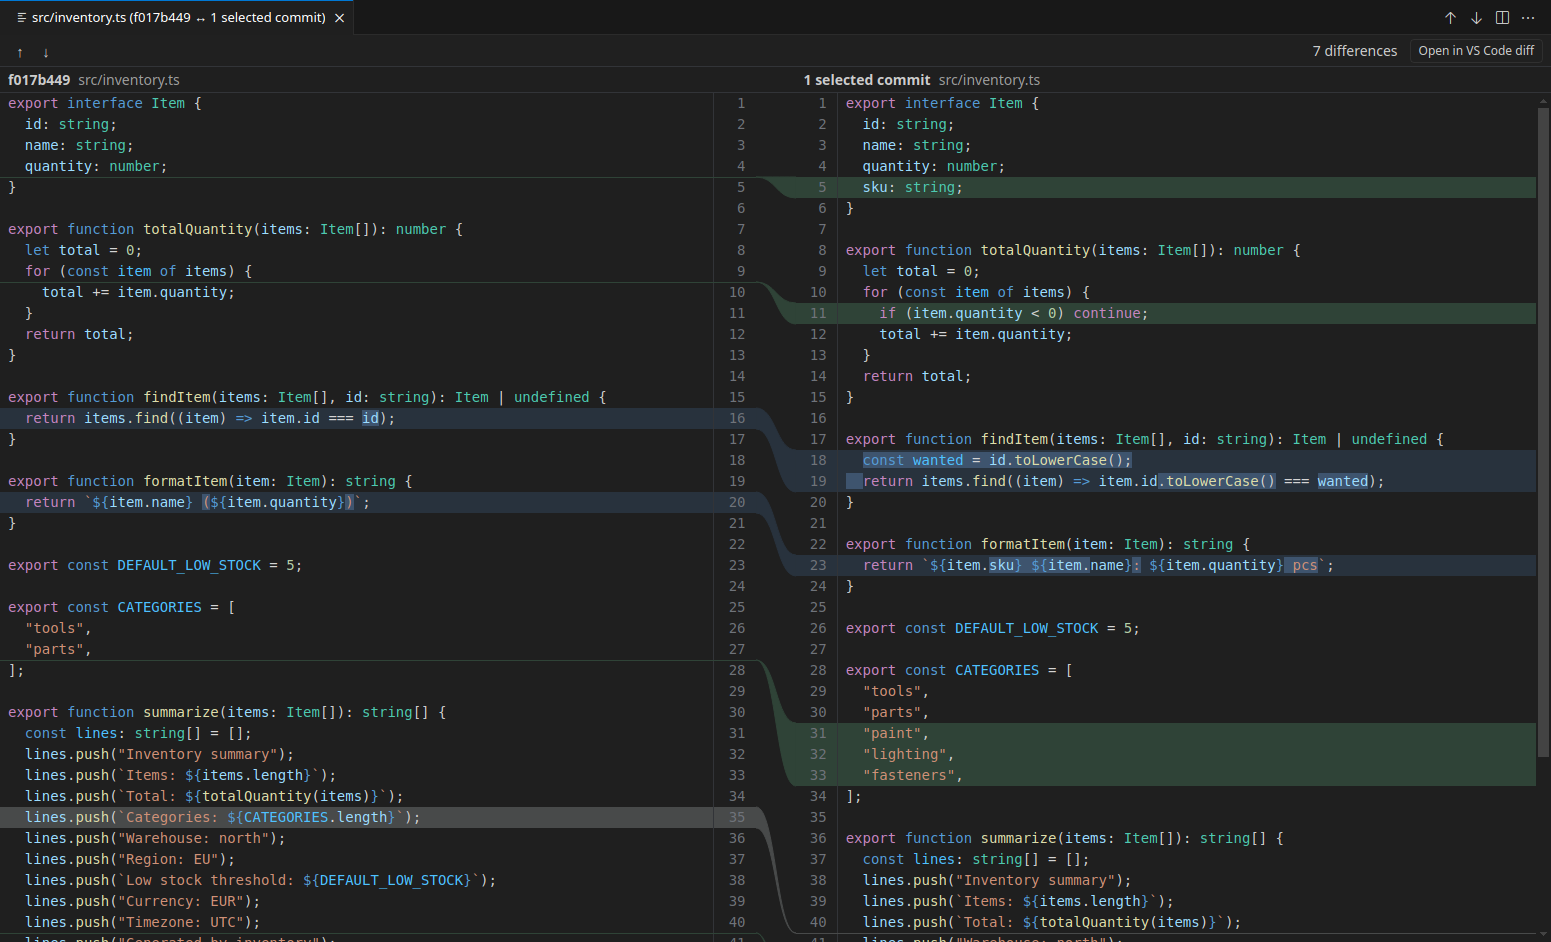
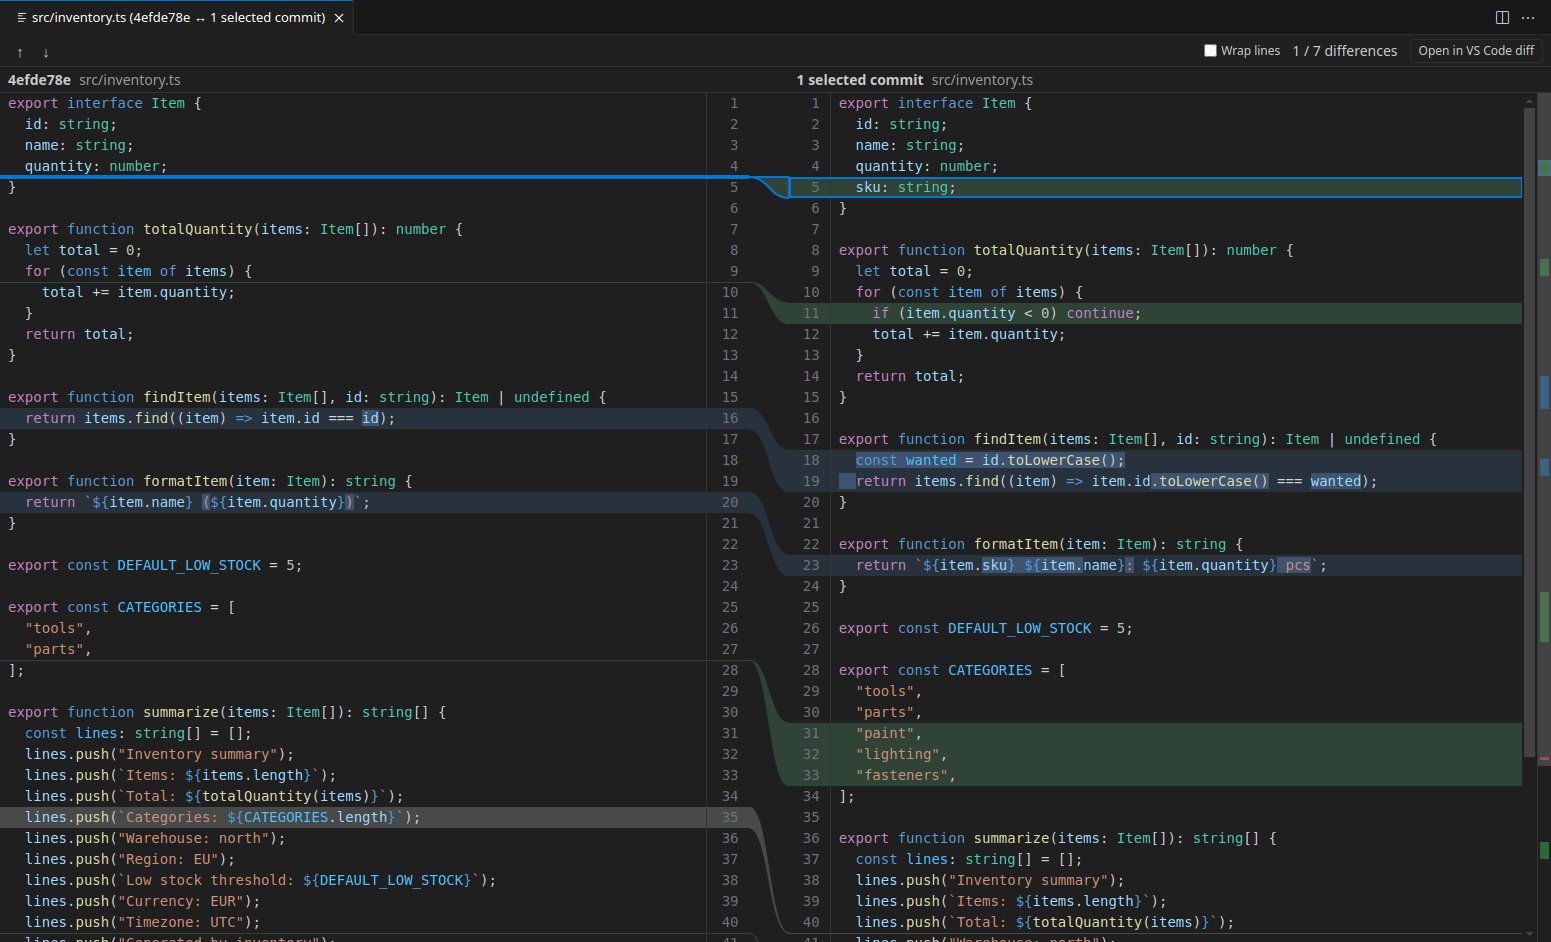
docs: retake diff and merge screenshots with the overview ruler

diff --git a/README.md b/README.md
@@ -162,7 +162,7 @@ _**Staged changes** and **Unstaged changes** selected together replay on HEAD, S
 
 Files open in an IntelliJ-style side-by-side diff rather than VS Code's padded one:
 
-![Two-way diff of src/inventory.ts with added, modified and changed-word highlights](docs/images/diff-view.png)
+![Two-way diff of src/inventory.ts with added, modified and changed-word highlights and an overview ruler at the right edge](docs/images/diff-view.png)
 
 _One commit's changes to `src/inventory.ts`: added lines green, modified lines blue with changed words darker._
 
@@ -246,7 +246,7 @@ _The jw-differ icon on a changed file (left) and on a merge-conflict file (right
 IntelliJ's merge dialog: your branch on the left, the editable result in the middle, the incoming version on the right,
 joined by connector ribbons.
 
-![Three-pane merge view of src/inventory.ts with connector ribbons and gutter buttons](docs/images/merge-view.png)
+![Three-pane merge view of src/inventory.ts with connector ribbons, gutter buttons and an overview ruler at the right edge](docs/images/merge-view.png)
 
 _`src/inventory.ts` mid-merge: `main` left, result middle, `feature/sku` right; 7 changes, 4 conflicts._
 
